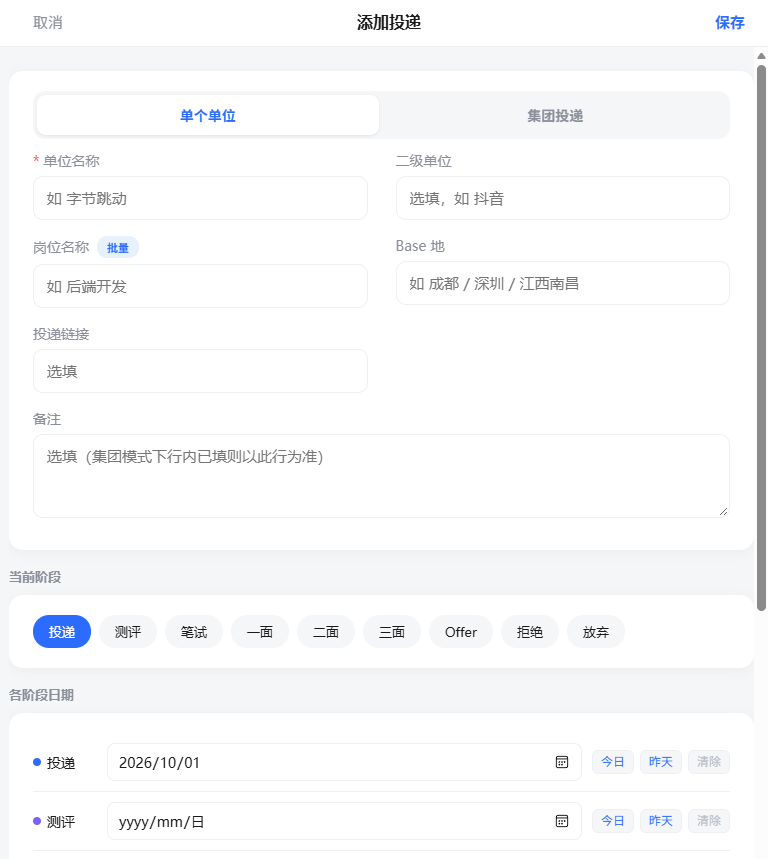
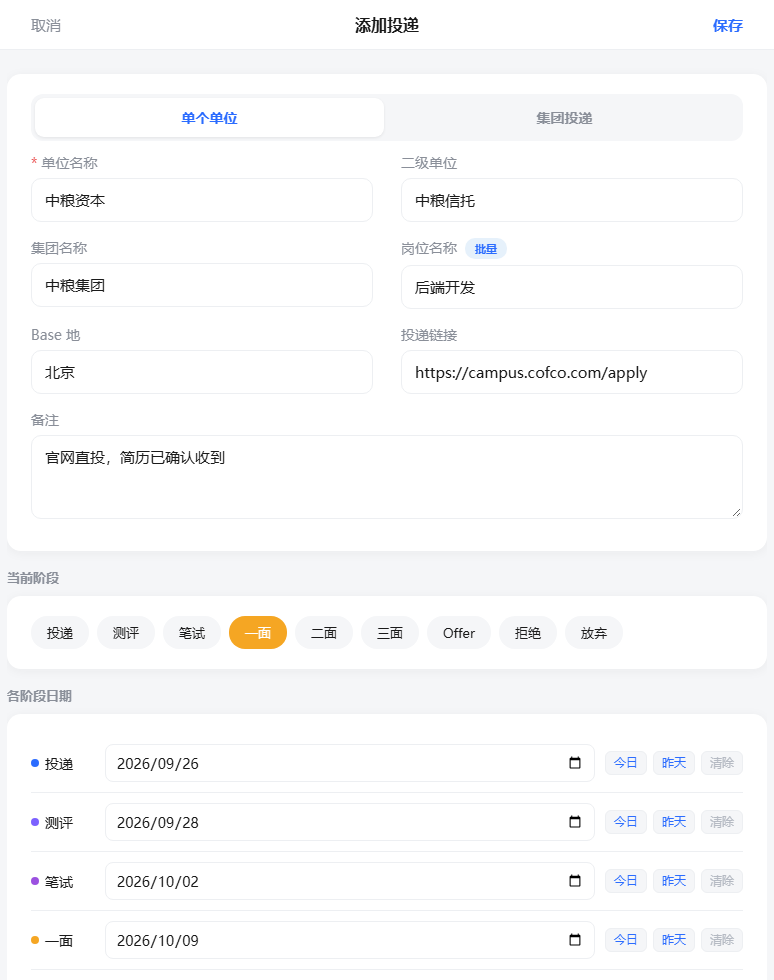
单个单位模式新增选填「集团名称」：填了自动归并到同集团，编辑时保留真实单位名

diff --git a/app.js b/app.js
@@ -378,7 +378,7 @@ function filteredRecords() {
     if (searchState.stage !== '全部' && r.stage !== searchState.stage) return false;
     if (base && !([r.base, normB].some(x => (x || '').toLowerCase().includes(base)))) return false;
     if (kw) {
-      const hay = [r.company, r.sub_unit, r.position, r.remark, r.base, normB].map(x => (x || '').toLowerCase()).join(' ');
+      const hay = [r.company, r.sub_unit, r.position, r.remark, r.base, normB, r.group_name].map(x => (x || '').toLowerCase()).join(' ');
       if (!hay.includes(kw)) return false;
     }
     return true;
@@ -403,7 +403,10 @@ function renderEdit() {
   $('#btn-delete').classList.toggle('hidden', !rec);
   // 集团名：编辑时取原值；新增时若从集团弹层「在此集团下新增」进入，则带入该集团名
   const initGroup = rec ? (rec.group_name || '') : (draftGroup || '');
-  draftMode = initGroup ? 'group' : 'single';
+  // 「单个单位 + 集团名称」写出来的记录：单位名称与集团名不同（company 保留了真实单位名），
+  // 编辑时回到单个单位模式，避免被集团模式覆写成 group 名
+  const singleTagged = !!(rec && initGroup && rec.company && rec.company !== rec.group_name);
+  draftMode = (initGroup && !singleTagged) ? 'group' : 'single';
   setModeUI(draftMode);
   // 集团模式投递行：编辑时这条记录成为一行，Base / 投递日期取该记录自己的值；
   // 老数据 company 可能是全称（如 中信银行北京市分行），回填到具体单位
@@ -427,6 +430,7 @@ function renderEdit() {
   }
   renderGroupRows();
   $('#f-group').value = initGroup;
+  $('#f-group-single').value = singleTagged ? initGroup : (draftMode === 'single' ? initGroup : '');
   $('#group-list').innerHTML = groupNameOptions().map(g => `<option value="${esc(g)}">`).join('');
   $('#f-company').value = rec ? rec.company : '';
   $('#f-base').value = rec ? (rec.base || '') : '';
@@ -487,11 +491,15 @@ function renderGroupRows() {
       <button type="button" class="gr-del" data-gdel="${i}" ${draftGroupRows.length <= 1 ? 'hidden' : ''} aria-label="删除此行">×</button>
     </div>`).join('');
 }
-// 选了已有集团名时，提示将自动归并
+// 两处「集团名称」输入（集团模式 / 单个单位模式的选填项）通用：选了已有集团名时提示将自动归并
 function updateGroupHint() {
-  const hint = $('#group-hint');
-  const v = $('#f-group').value.trim();
-  if (draftMode !== 'group' || !v) { hint.classList.add('hidden'); return; }
+  hintFor($('#f-group'), $('#group-hint'), draftMode === 'group');
+  hintFor($('#f-group-single'), $('#group-hint-single'), draftMode === 'single');
+}
+function hintFor(input, hint, active) {
+  if (!input || !hint) return;
+  const v = input.value.trim();
+  if (!active || !v) { hint.classList.add('hidden'); return; }
   const match = groupNameOptions().find(g => g === v);
   if (match) {
     const n = records.filter(r => (r.group_name || '').trim() === v).length;
@@ -524,7 +532,9 @@ function collectForm() {
   const normalizedBase = normalizeLocation(rawBase);
   return {
     company: $('#f-company').value.trim(),
-    group_name: draftMode === 'group' ? ($('#f-group').value.trim() || null) : null,
+    group_name: draftMode === 'group'
+      ? ($('#f-group').value.trim() || null)
+      : ($('#f-group-single').value.trim() || null),
     base: normalizedBase || null,
     sub_unit: $('#f-sub').value.trim() || null,
     position: $('#f-position').value.trim() || null,
@@ -558,7 +568,10 @@ async function saveRecord() {
     ({ error } = await sb.from('applications').insert(payload));
   }
   if (error) { toast('保存失败：' + error.message); return; }
-  toast(n > 1 ? `已添加 ${n} 条投递` : '已保存');
+  const gName = payload.group_name;
+  toast(gName
+    ? (n > 1 ? `已添加 ${n} 条投递，归入「${gName}」` : `已保存，归入「${gName}」`)
+    : (n > 1 ? `已添加 ${n} 条投递` : '已保存'));
   editingId = null;
   draftGroup = '';
   await loadRecords();
@@ -577,12 +590,14 @@ async function saveGroupRecord() {
   if (!rows.length) rows = [{ sub: '', pos: '', base: '', date: '', remark: '' }];   // 编辑模式允许清空，保留集团主体
   const n = rows.length;
   const link = $('#f-link').value.trim() || null;   // 链接仍是全组共用（同一次网申）
+  // 编辑时保留该记录原有的 company（可能来自「单个单位 + 集团名称」，是真实单位名，不等于集团名）
+  const keptCompany = editingId ? (records.find(r => r.id === editingId) || {}).company : null;
   const mk = r => {
     const stage_dates = { ...(groupEditStageDates || {}) };
     if (r.date) stage_dates['投递'] = r.date; else delete stage_dates['投递'];
     const stage = stageFromDates(stage_dates) || (editingId ? groupEditStage : '投递');
     return {
-      company: group,
+      company: (editingId && keptCompany && keptCompany !== group) ? keptCompany : group,
       group_name: group,
       sub_unit: r.sub || null,
       position: r.pos || null,
@@ -648,11 +663,14 @@ function openGroupSheet(groupName) {
   const color = COLORS[gstage] || '#2B6CFF';
   const rows = recs.map(r => {
     const rc = COLORS[r.stage] || '#9AA0A6';
-    const detail = [r.sub_unit, r.position, normalizeLocation(r.base)].filter(Boolean).map(esc).join(' · ');
+    // 集团模式下 company = 集团名；「单个单位 + 集团名称」写出来的记录 company 是真实单位名，一并显示
+    const nameParts = [r.sub_unit, r.company && r.company !== r.group_name ? r.company : null].filter(Boolean);
+    const name = nameParts.join(' · ') || r.company;
+    const detail = [r.position, normalizeLocation(r.base)].filter(Boolean).map(esc).join(' · ');
     const latestDate = r.stage_dates && r.stage_dates[r.stage];
     return `<div class="g-child-row" data-child="${r.id}">
       <div class="g-child-main">
-        <div class="g-child-name">${esc(r.sub_unit || r.company)}</div>
+        <div class="g-child-name">${esc(name)}</div>
         ${detail ? `<div class="g-child-sub">${detail}</div>` : ''}
       </div>
       <div class="g-child-right">
@@ -931,8 +949,14 @@ function bindEvents() {
   // 单个单位 / 集团投递 模式切换
   $('#f-mode').addEventListener('click', (e) => {
     const btn = e.target.closest('.seg-btn'); if (!btn) return;
+    const toGroup = btn.dataset.mode === 'group';
+    // 单个单位里已填了集团名，切到集团模式时带过去，省得再打一遍
+    if (toGroup && !$('#f-group').value.trim() && $('#f-group-single').value.trim()) {
+      $('#f-group').value = $('#f-group-single').value.trim();
+    }
     setModeUI(btn.dataset.mode);
-    if (btn.dataset.mode === 'group') { $('#f-group').focus(); updateGroupHint(); }
+    if (toGroup) $('#f-group').focus();
+    updateGroupHint();
   });
   // 集团投递模式：投递行编辑 / 删除 / 新增
   $('#g-rows').addEventListener('input', (e) => {
@@ -953,8 +977,9 @@ function bindEvents() {
     const last = $('#g-rows .g-row:last-child .gr-sub');
     if (last) last.focus();
   });
-  // 集团名输入时，命中已有集团则提示将自动归并
+  // 集团名输入时，命中已有集团则提示将自动归并（两处集团名输入都监听）
   $('#f-group').addEventListener('input', updateGroupHint);
+  $('#f-group-single').addEventListener('input', updateGroupHint);
   // 岗位批量模式切换：单输入框 ↔ 多行 textarea
   $('#f-pos-batch').addEventListener('click', () => {
     const btn = $('#f-pos-batch');

diff --git a/index.html b/index.html
@@ -132,11 +132,12 @@
         <div id="single-fields">
           <div class="form-row"><span class="f-label req">单位名称</span><input id="f-company" placeholder="如 字节跳动"></div>
           <div class="form-row"><span class="f-label">二级单位</span><input id="f-sub" placeholder="选填，如 抖音"></div>
+          <div class="form-row"><span class="f-label">集团名称</span><input id="f-group-single" list="group-list" placeholder="选填，填了自动归并"><div id="group-hint-single" class="input-hint hidden"></div></div>
           <div class="form-row"><span class="f-label">岗位名称<button type="button" id="f-pos-batch" class="pos-toggle hidden">批量</button></span><input id="f-position" placeholder="如 后端开发"><textarea id="f-position-multi" rows="3" class="hidden" placeholder="每行一个岗位，其余信息共用"></textarea></div>
         </div>
         <!-- 集团投递模式：先填集团名称，再逐行列出该集团下的投递 -->
         <div id="group-fields" class="hidden">
-          <div class="form-row"><span class="f-label req">集团名称</span><input id="f-group" list="group-list" placeholder="如 中信银行（同集团分行会自动合并）"><datalist id="group-list"></datalist><div id="group-hint" class="input-hint hidden"></div></div>
+          <div class="form-row"><span class="f-label req">集团名称</span><input id="f-group" list="group-list" placeholder="如 中信银行（同集团分行会自动合并）"><div id="group-hint" class="input-hint hidden"></div></div>
           <div class="form-row col"><span class="f-label req">该集团下的投递</span>
             <div id="g-rows"></div>
             <button type="button" id="g-add" class="g-add">＋ 再加一个投递</button>
@@ -146,6 +147,8 @@
         <div class="form-row" id="row-base"><span class="f-label">Base 地</span><input id="f-base" placeholder="如 成都 / 深圳 / 江西南昌"><div id="f-base-hint" class="input-hint hidden"></div></div>
         <div class="form-row"><span class="f-label">投递链接</span><input id="f-link" placeholder="选填"></div>
         <div class="form-row col" id="row-remark"><span class="f-label">备注</span><textarea id="f-remark" rows="3" placeholder="选填（集团模式下行内已填则以此行为准）"></textarea></div>
+        <!-- 两处「集团名称」输入共用同一份候选（已有集团名） -->
+        <datalist id="group-list"></datalist>
       </div>
       <div class="sec-title" id="sec-stage-title">当前阶段</div>
       <div class="card" id="sec-stage-card"><div id="edit-stages" class="chips"></div></div>

diff --git a/README.md b/README.md
@@ -15,7 +15,7 @@
 
 - **一眼看清全局**：顶部实时统计「进行中 / Offer / 未过 / 总计」，按状态筛选，心里有数。
 - **流水线式进度**：每条投递是一根「投递 → 测评 → 笔试 → 一面 → 二面 → 三面 → Offer」的进度条，点一下方块就能前进 / 后退，还能记录每个阶段的日期。
-- **集团投递一次搞定**：投中信银行总行 + 天津分行 + 北京分行？用「集团投递」模式，一次填多条，集团名下自动聚合；每条投递的 **Base 地、投递日期、备注** 各自独立，链接共用。
+- **集团投递一次搞定 / 也能随手归并**：投中信银行总行 + 天津分行 + 北京分行？用「集团投递」模式一次填多条；平时投单个单位时，也可以只填一个「集团名称（选填）」，之后同集团的投递会自动聚合成集团卡片。每条投递的 **Base 地、投递日期、备注** 各自独立，链接共用。
 - **智能阶段推导**：改个日期，阶段自动跟着变——哪天记了一面日期，状态自动推进到「一面」，不用手动维护。
 - **手机当 App 用**：支持 PWA，手机浏览器「添加到主屏幕」后就是独立 App，免登录常驻。
 - **数据归属清晰**：基于 Supabase Auth + 行级安全（RLS），每个账号只能看到自己的数据，注册即用。
@@ -59,8 +59,10 @@
 
 | 模式 | 适合场景 | 填写内容 |
 | --- | --- | --- |
-| **单个单位** | 普通公司投递 | 单位名称、二级单位、岗位（支持批量添加多岗位）、Base 地、链接、备注、日期 |
+| **单个单位** | 普通公司投递 | 单位名称、二级单位、**集团名称（选填，填了自动归并）**、岗位（支持批量添加多岗位）、Base 地、链接、备注、日期、各阶段进度 |
 | **集团投递** | 同一集团多单位/多分行 | 集团名称 + 多条投递行，每行独立填：具体单位、岗位、Base 地、投递日期、备注；链接共用 |
+
+> 两种方式都能归并：投单个单位时顺手填一下「集团名称」，之后同集团的投递会在首页自动聚合成一张集团卡片（≥2 条时合并）；集团名有候选提示，选中已有集团会提示将合并到哪个组。
 
 ### 推进 / 回退进度
 
